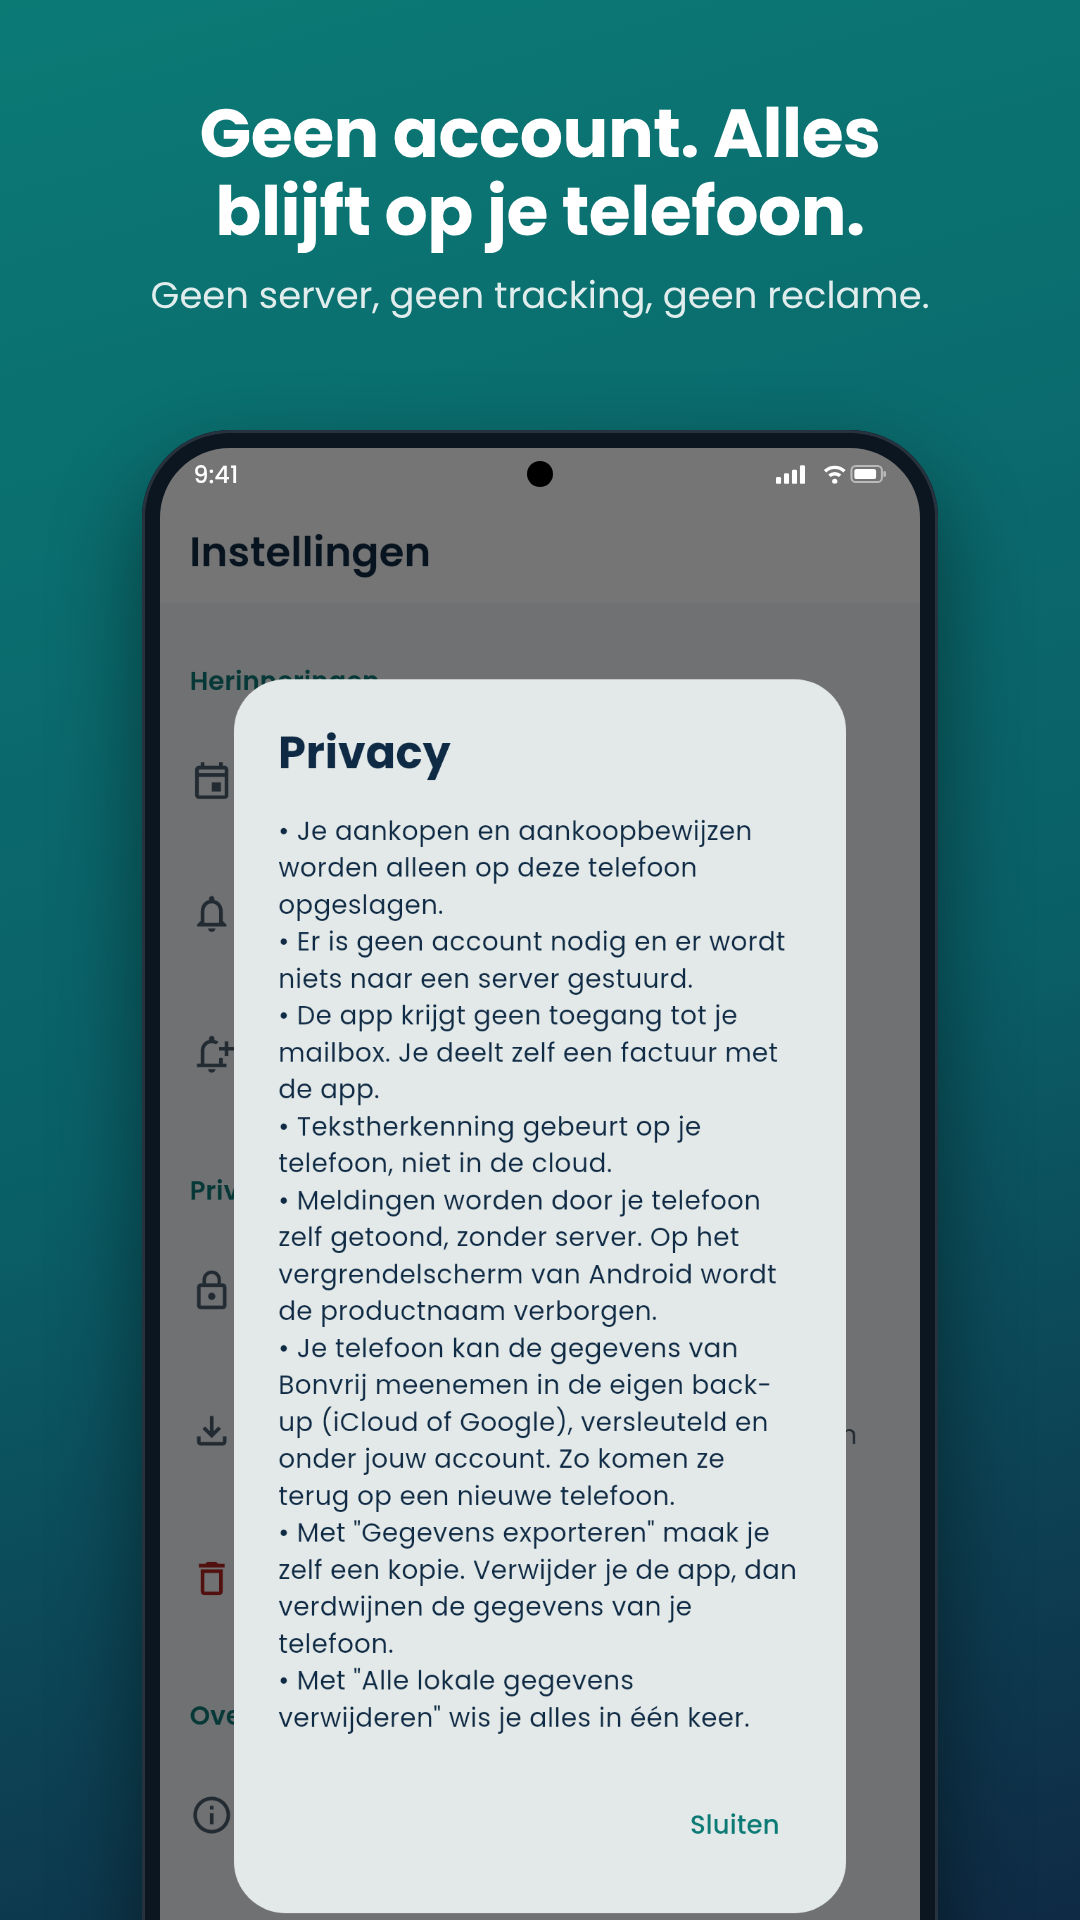
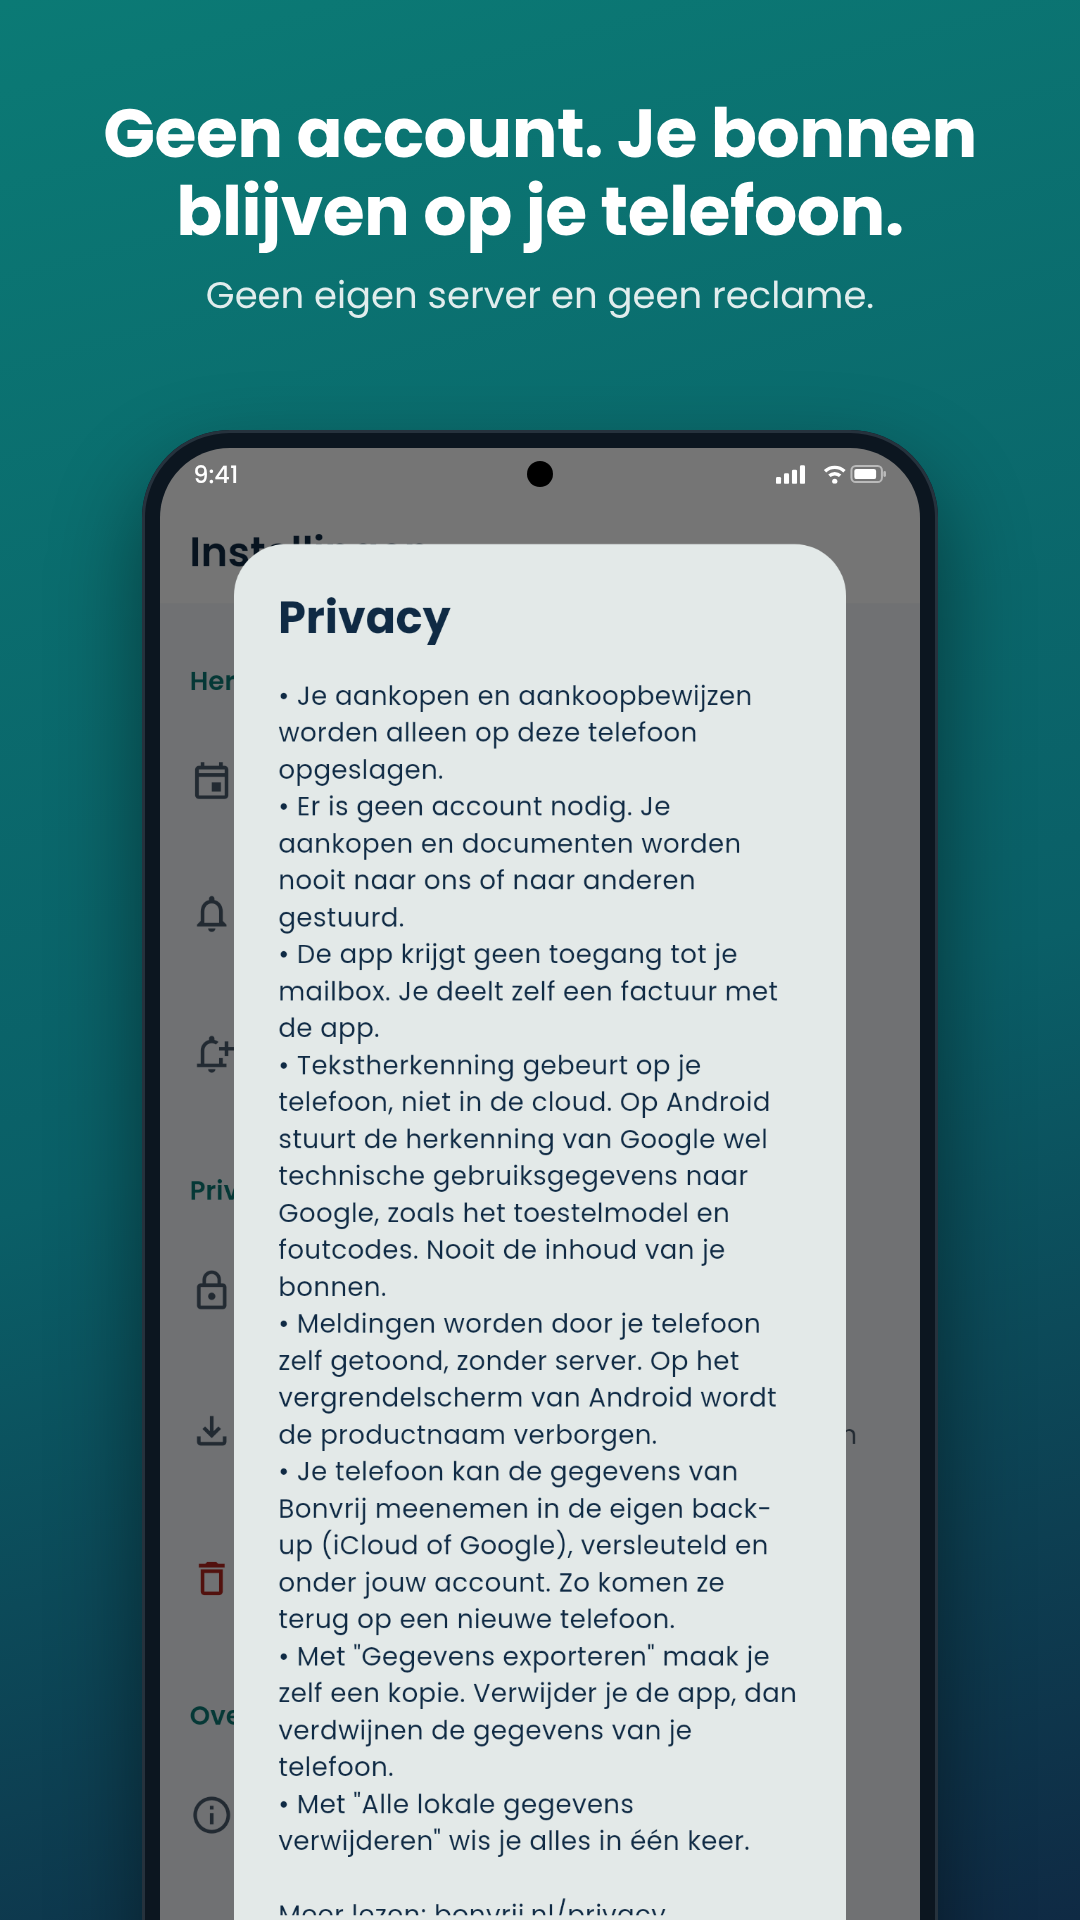
Winkelafbeelding 6 bijgewerkt; script laat README staan
Claude-Session: https://claude.ai/code/session_01XbXMMiE2NjFzHgv4o9srSF

Changed region(s): [[0.2139, 0.2812, 0.7944, 1.0], [0.0917, 0.0312, 0.9167, 0.1875], [0.7028, 0.8125, 0.7333, 0.8438]]

diff --git a/scripts/store_images.py b/scripts/store_images.py
@@ -133,8 +133,10 @@ p {{ position:absolute; left:72px; top:320px; width:500px; font-size:21px; line-
 
 
 def main() -> None:
-    if OUT.exists():
-        shutil.rmtree(OUT)
+    # Alleen de afbeeldingsmappen opnieuw maken; README.md blijft staan.
+    for sub in ("ios", "android", "google-play"):
+        if (OUT / sub).exists():
+            shutil.rmtree(OUT / sub)
     tmp = OUT / ".tmp"
     tmp.mkdir(parents=True)
     with sync_playwright() as pw:
